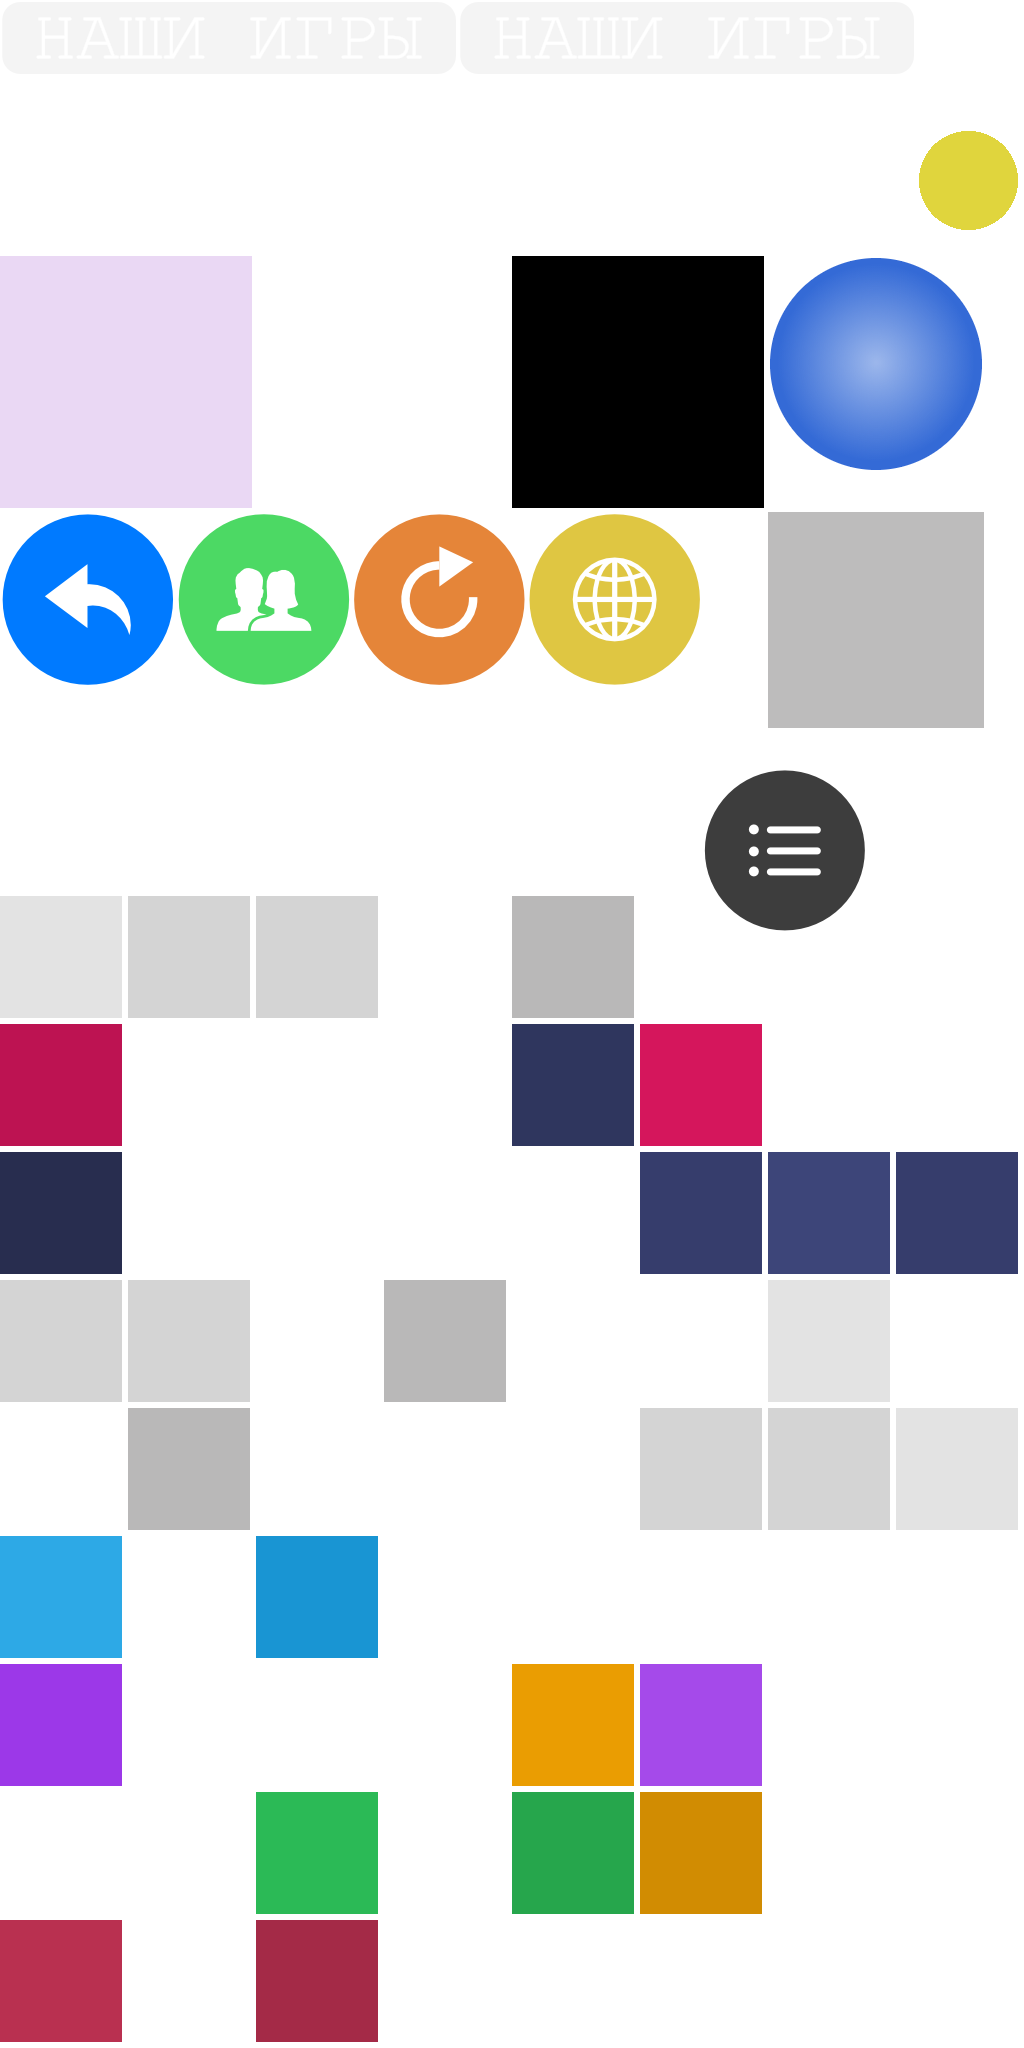
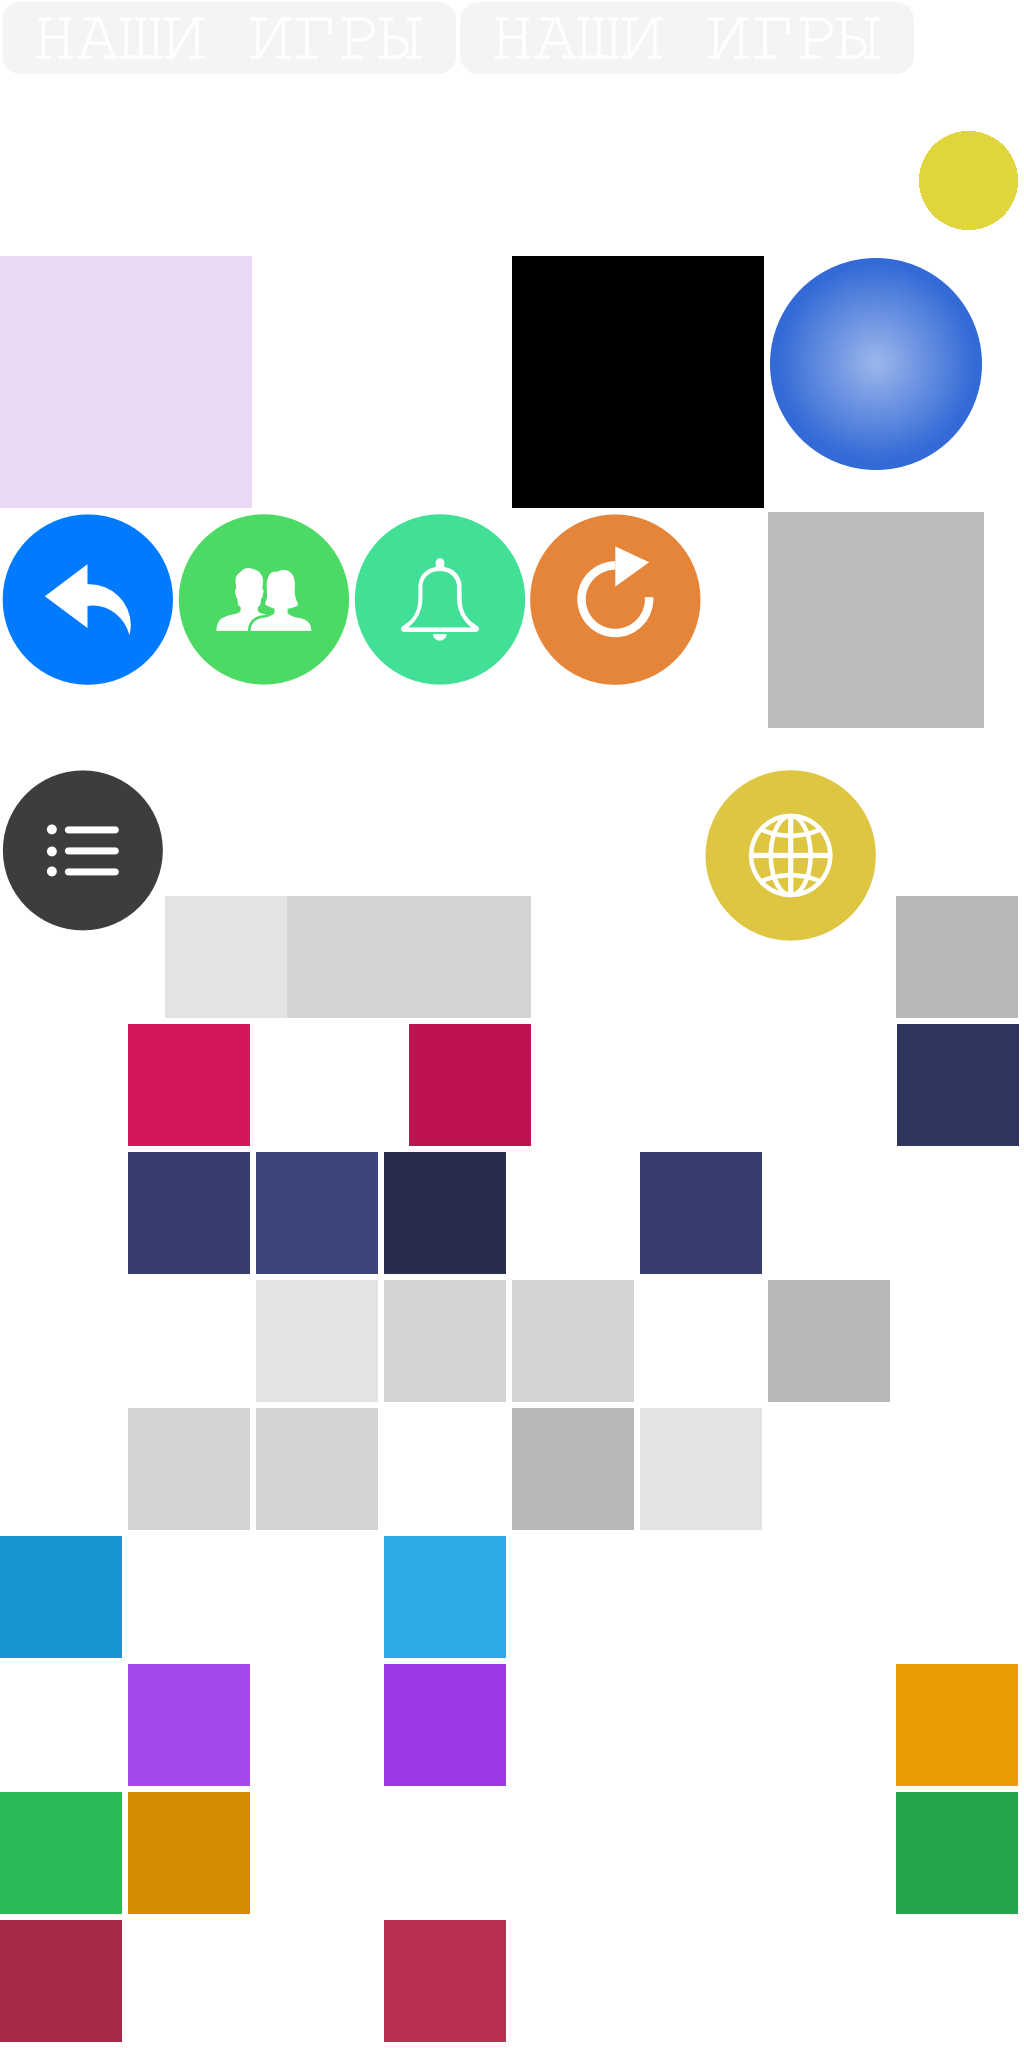
Add files via upload

diff --git a/jumptower/scripts/c3runtime.js b/jumptower/scripts/c3runtime.js
@@ -4421,9 +4421,11 @@ value){switch(index){case ENABLE:this.SetEnabled(value);break}}GetDebuggerProper
 		C3.Plugins.VKBridge.Acts.ShowInvite,
 		C3.Plugins.VKBridge.Acts.ShowWall,
 		C3.Plugins.VKBridge.Acts.LeaderBoardVKUI,
+		C3.Plugins.System.Acts.GoToLayout,
+		C3.ScriptsInEvents.Buttons_Event8_Act1,
 		C3.Plugins.Sprite.Cnds.CompareFrame,
 		C3.Plugins.VKBridge.Acts.JoinGroup,
-		C3.ScriptsInEvents.Buttons_Event9_Act1,
+		C3.ScriptsInEvents.Buttons_Event11_Act1,
 		C3.Plugins.VKBridge.Cnds.JoinGroupSuccess
 		];
 	};
@@ -4710,6 +4712,8 @@ value){switch(index){case ENABLE:this.SetEnabled(value);break}}GetDebuggerProper
 		},
 		() => "https://vk.com/app7860467",
 		() => "leader",
+		() => "home",
+		() => "notif",
 		() => 204017056
 	];
 }

diff --git a/jumptower/scripts/project/scriptsInEvents.js b/jumptower/scripts/project/scriptsInEvents.js
@@ -5,9 +5,14 @@
 {
 	const scriptsInEvents = {
 
-		async Buttons_Event9_Act1(runtime, localVars)
+		async Buttons_Event8_Act1(runtime, localVars)
 		{
-			windows.open('https://vk.com/a_b_vstudio')
+			vkbridge.send("VKWebAppDenyNotifications");
+		},
+
+		async Buttons_Event11_Act1(runtime, localVars)
+		{
+			vkbridge.windows.open('https://vk.com/a_b_vstudio')
 		}
 
 	};
